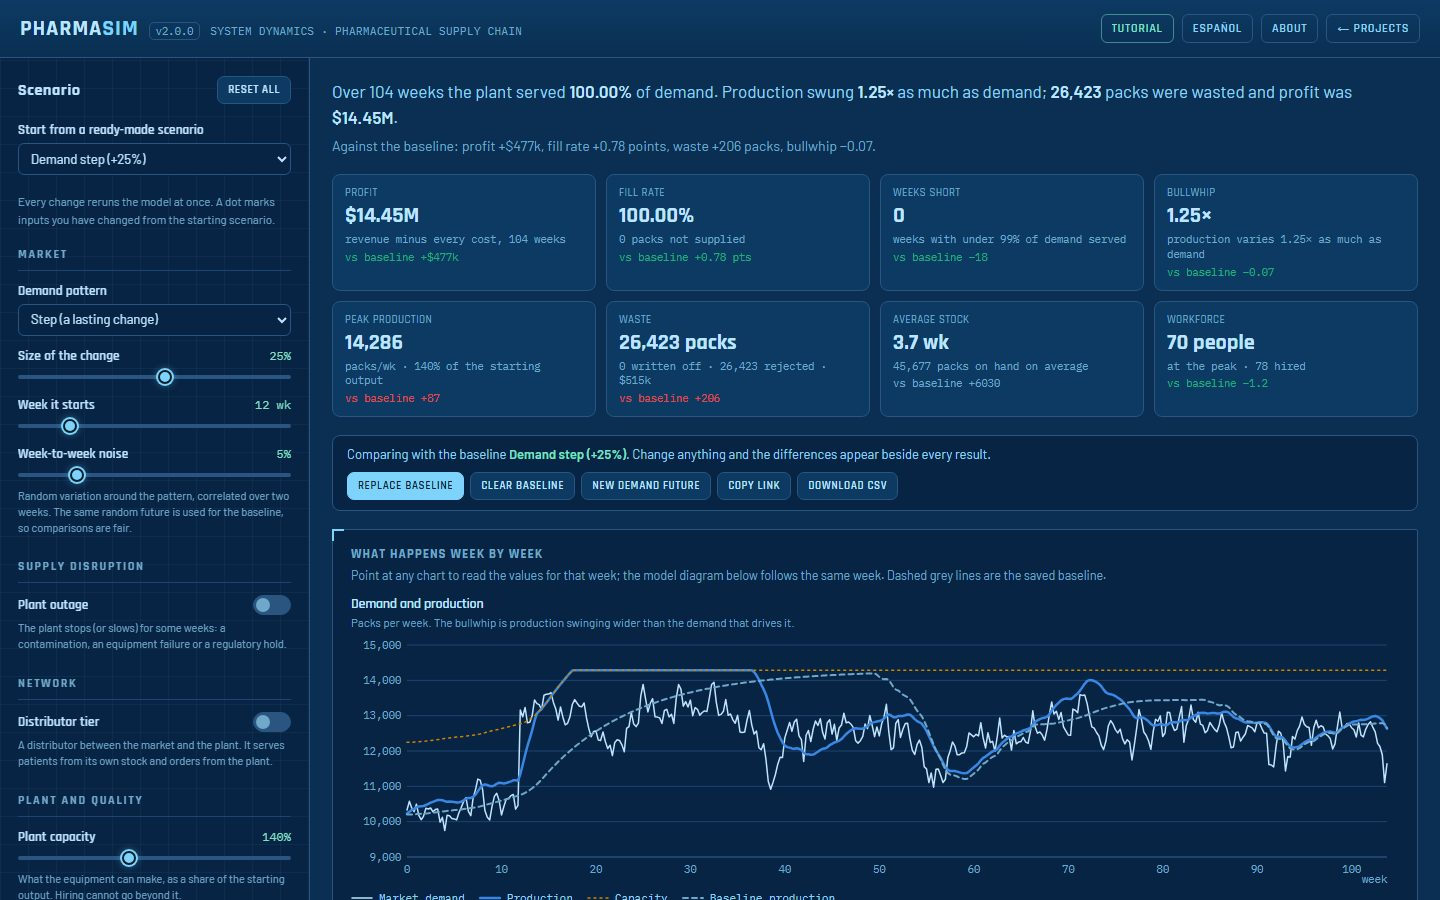
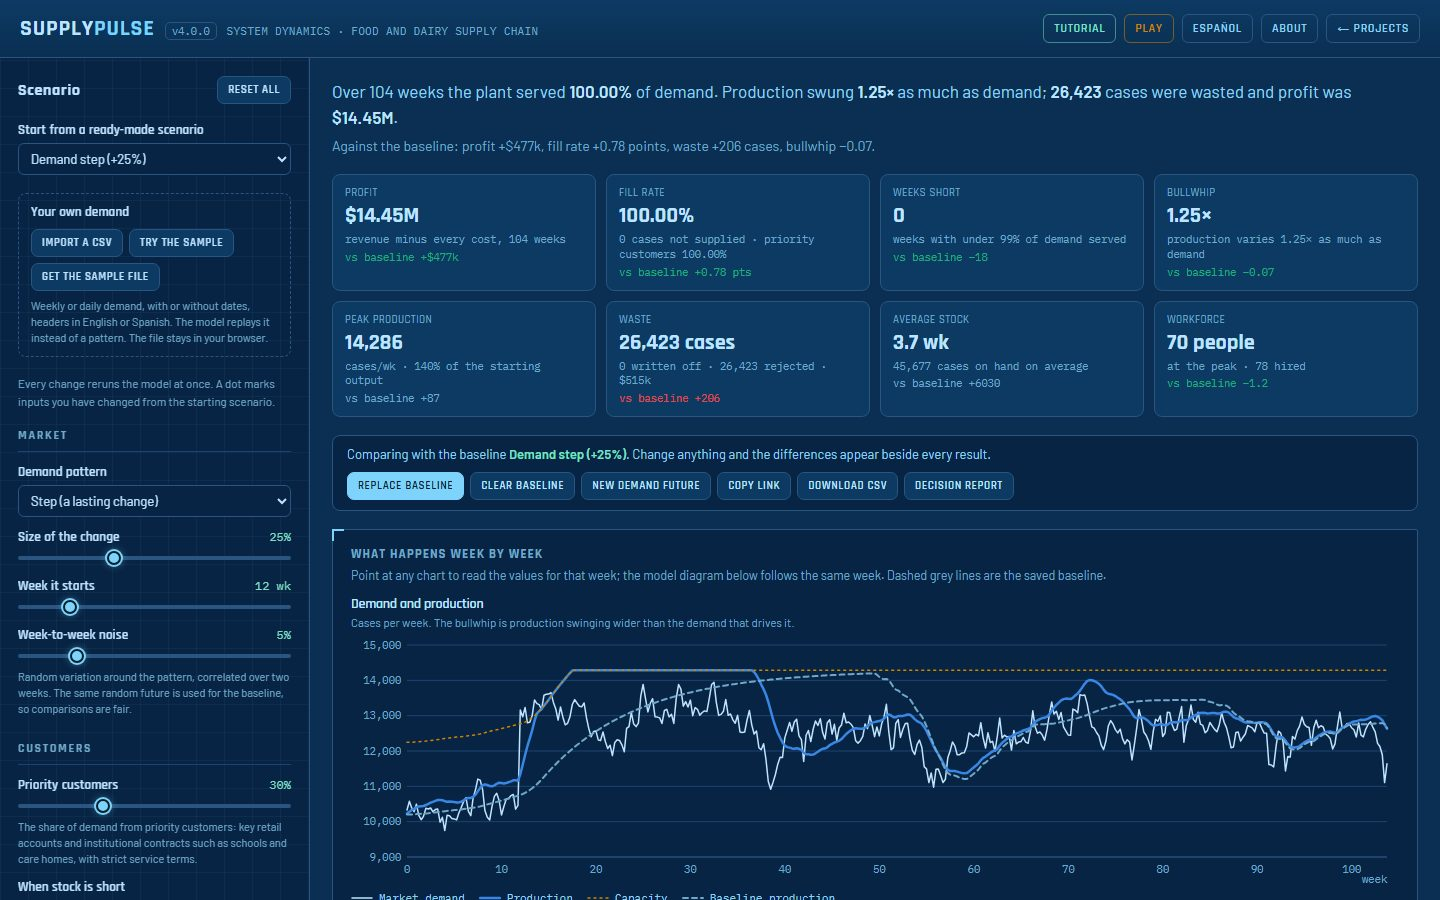
Supply Pulse 4.0.0: header Play link no longer picks up the play page layout; new screenshot

diff --git a/index.html b/index.html
@@ -20,7 +20,7 @@
   </div>
   <div class="header-actions">
     <button class="back-link tour" type="button" id="tourBtn" data-i18n="nav.tour">Tutorial</button>
-    <a class="back-link play" href="play.html" id="playLink" data-i18n="nav.play">Play</a>
+    <a class="back-link playlink" href="play.html" id="playLink" data-i18n="nav.play">Play</a>
     <button class="back-link" type="button" id="langBtn" lang="es">Español</button>
     <a class="back-link" href="about.html" data-i18n="nav.about">About</a>
     <a class="back-link" href="https://kathuman.github.io/claude-projects/" data-i18n="nav.projects">← Projects</a>

diff --git a/style.css b/style.css
@@ -227,7 +227,7 @@ footer.foot .consult a{color:var(--accent);}
 .import-box .bad{color:#ffb3b2;}
 
 /* ---- play mode */
-.back-link.play{color:var(--s4); border-color:rgba(201,133,0,.55);}
+.back-link.playlink{color:var(--s4); border-color:rgba(201,133,0,.55);}
 .play{max-width:1280px; margin:0 auto; padding:20px 22px 0; display:flex; flex-direction:column; gap:18px;}
 .play .foot{margin-top:6px;}
 .switch.inline{gap:8px; justify-content:flex-start;}
